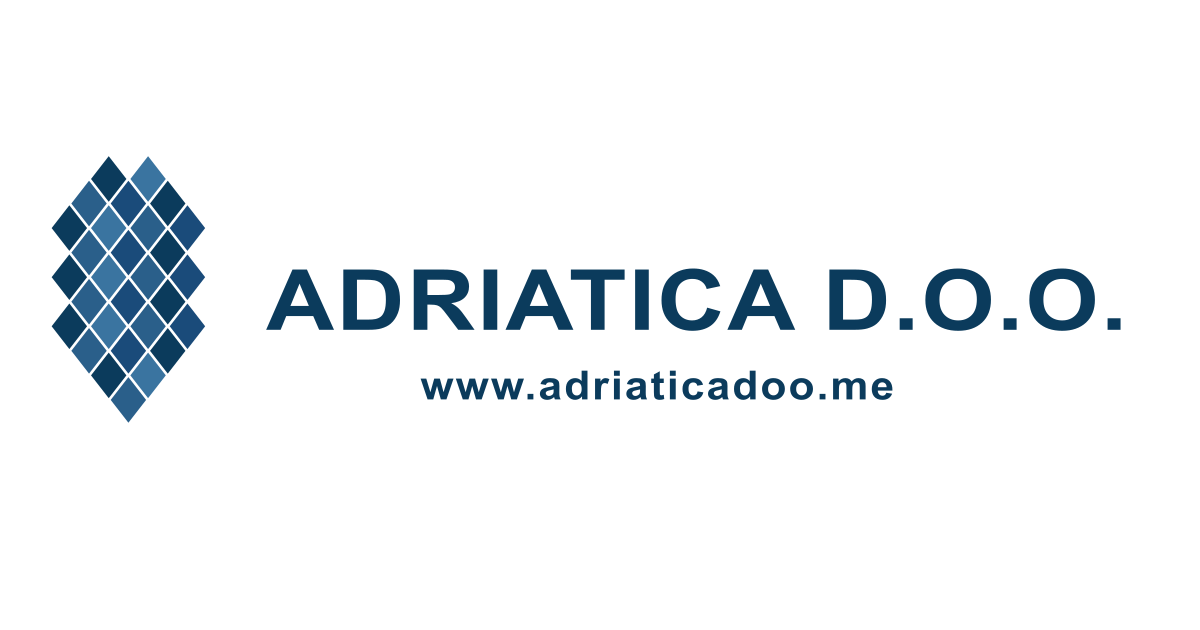
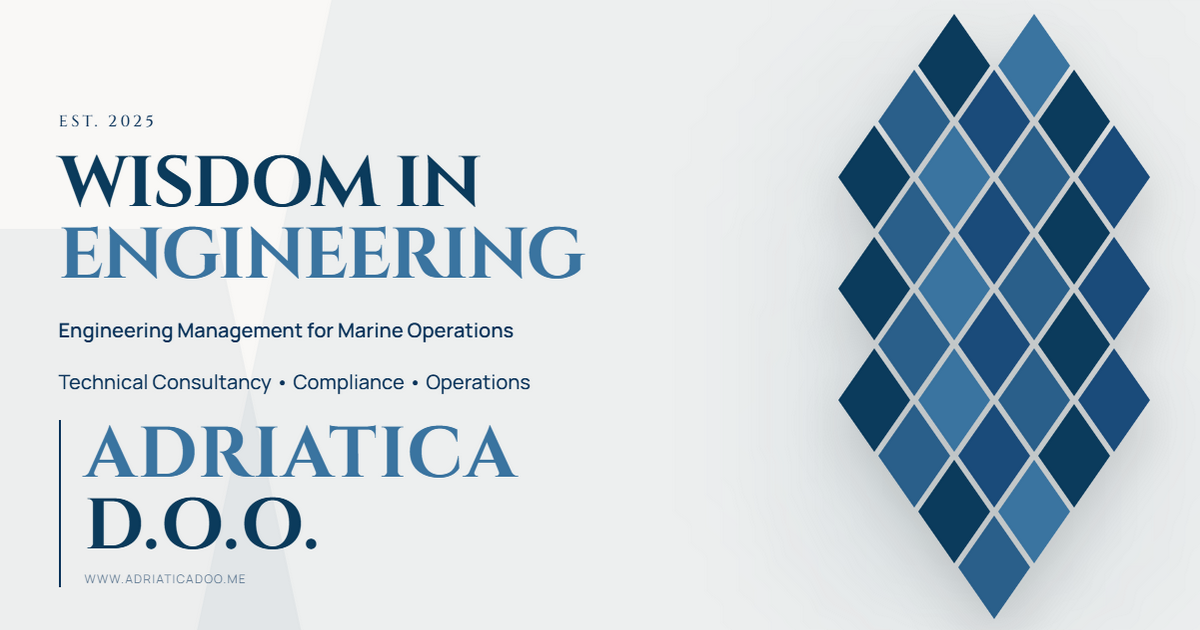
Final cleanup: TypeScript fixes, ESLint config, React imports, remove unused props

diff --git a/client/src/pages/Home.tsx b/client/src/pages/Home.tsx
@@ -87,7 +87,7 @@ export default function Home() {
       <div className="min-h-screen bg-background font-body selection:bg-primary/20">
         <Navigation />
 
-        {/* Hero Section */}
+        {/* Hero Section - fully responsive */}
         <section className="relative min-h-screen flex overflow-hidden pt-32 pb-16 md:pt-24 md:pb-24">
           {/* Abstract Background Elements */}
           <div className="absolute inset-0 z-0">
@@ -97,12 +97,11 @@ export default function Home() {
 
           <div className="max-w-7xl mx-auto px-4 sm:px-6 lg:px-8 relative z-10 w-full">
             <div className="grid grid-cols-1 lg:grid-cols-2 gap-8 lg:gap-24 items-center">
-              {/* Left column – shifted down */}
               <motion.div
                 initial={{ opacity: 0, x: -50 }}
                 animate={{ opacity: 1, x: 0 }}
                 transition={{ duration: 0.8, ease: "easeOut" }}
-                className="text-center lg:text-left mb-10 lg:mb-0 mt-20"
+                className="text-center lg:text-left mb-10 lg:mb-0"
               >
                 <h2 className="text-primary font-medium tracking-[0.2em] uppercase mb-4">
                   Est. 2025
@@ -112,36 +111,53 @@ export default function Home() {
                   <span className="text-[#3A74A0]">ENGINEERING</span>
                 </h1>
 
+                {/* New broad descriptor */}
                 <p className="text-base md:text-lg lg:text-xl text-primary font-semibold mb-6">
                   Engineering Management for Marine Operations
                 </p>
 
+                {/* Benefit line */}
                 <p className="text-base md:text-lg lg:text-xl font-medium text-primary leading-relaxed max-w-xl mx-auto lg:mx-0 mb-6">
-                  Technical Consultancy • Compliance • Operations
+                  Avoid drydock delays. Stay PSC‑ready. Maintain your charter schedule.
                 </p>
 
-                {/* Company name + URL */}
+                {/* Context block with badge and left border */}
                 <div className="border-l-2 border-primary pl-6 mb-10">
-                  <h1 className="font-display text-4xl md:text-6xl lg:text-7xl font-bold uppercase tracking-wide leading-[1.1]">
-                    <span className="text-[#3A74A0]">ADRIATICA</span>{' '}
-                    <span className="text-[#0B3B5C]">D.O.O.</span>
-                  </h1>
-                  <div className="mt-2">
-                    <p className="text-xs uppercase tracking-widest text-primary/60">
-                      www.adriaticadoo.me
-                    </p>
+                  <div className="flex flex-wrap items-center gap-3 mb-2">
+                    <span className="inline-flex items-center px-2.5 py-0.5 rounded-full text-xs font-medium bg-primary/10 text-primary">
+                      IMO 2026 Priority
+                    </span>
                   </div>
+                  <p className="text-base md:text-lg lg:text-xl text-muted-foreground leading-relaxed max-w-xl mx-auto lg:mx-0">
+                    <a href="/news" className="hover:underline hover:text-primary transition-colors">
+                      With increasing PSC scrutiny across Europe, unmanaged biofouling is becoming an operational and regulatory risk. The 2026 IMO enforcement timeline accelerates the need for action.
+                    </a>
+                  </p>
+                </div>
+                
+                <div className="flex flex-col sm:flex-row gap-4 justify-center lg:justify-start">
+                  <button 
+                    onClick={() => document.getElementById('begin-voyage')?.scrollIntoView({ behavior: 'smooth' })}
+                    className="px-8 py-4 bg-[#D4AF37] text-white font-medium rounded-sm shadow-lg shadow-[#D4AF37]/20 hover:bg-[#C9A961] transition-all duration-300 uppercase tracking-wide text-sm"
+                  >
+                    Request Technical Assessment
+                  </button>
+                  <button 
+                    onClick={() => document.getElementById('core-competencies')?.scrollIntoView({ behavior: 'smooth' })}
+                    className="px-8 py-4 bg-transparent border border-[#0B3B5C] text-[#0B3B5C] font-medium rounded-sm hover:bg-[#0B3B5C]/5 transition-all duration-300 uppercase tracking-wide text-sm"
+                  >
+                    Explore Services
+                  </button>
                 </div>
               </motion.div>
 
-              {/* Right column – logo container reduced in size */}
               <motion.div
                 initial={{ opacity: 0, scale: 0.9, rotate: 5 }}
                 animate={{ opacity: 1, scale: 1, rotate: 0 }}
                 transition={{ duration: 1, ease: "easeOut", delay: 0.2 }}
                 className="relative flex justify-center items-center mt-8 lg:mt-0"
               >
-                <div className="relative w-full max-w-[180px] sm:max-w-[252px] lg:max-w-[400px] aspect-square flex items-center justify-center">
+                <div className="relative w-full max-w-[200px] sm:max-w-[280px] lg:max-w-md aspect-square flex items-center justify-center">
                   <div className="absolute inset-0 bg-gradient-to-tr from-[#0B3B5C]/10 to-transparent rounded-full blur-3xl" />
                   <img 
                     src="/logo.svg" 
@@ -159,6 +175,7 @@ export default function Home() {
             transition={{ delay: 1.5, duration: 1 }}
             className="absolute bottom-8 left-1/2 -translate-x-1/2 flex flex-col items-center text-primary/40"
           >
+            <span className="text-xs uppercase tracking-widest mb-2">Scroll</span>
             <ArrowDown className="animate-bounce w-5 h-5" />
           </motion.div>
         </section>
